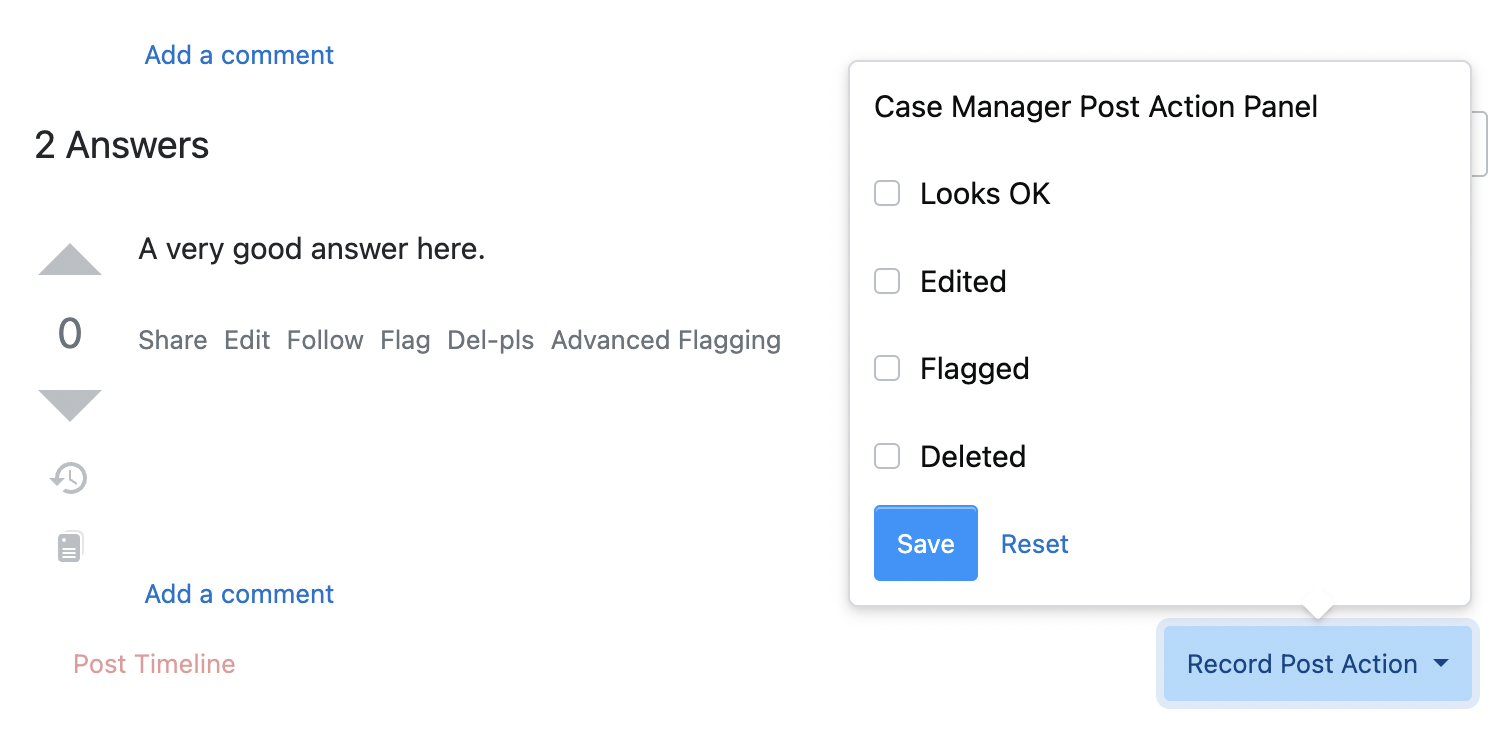
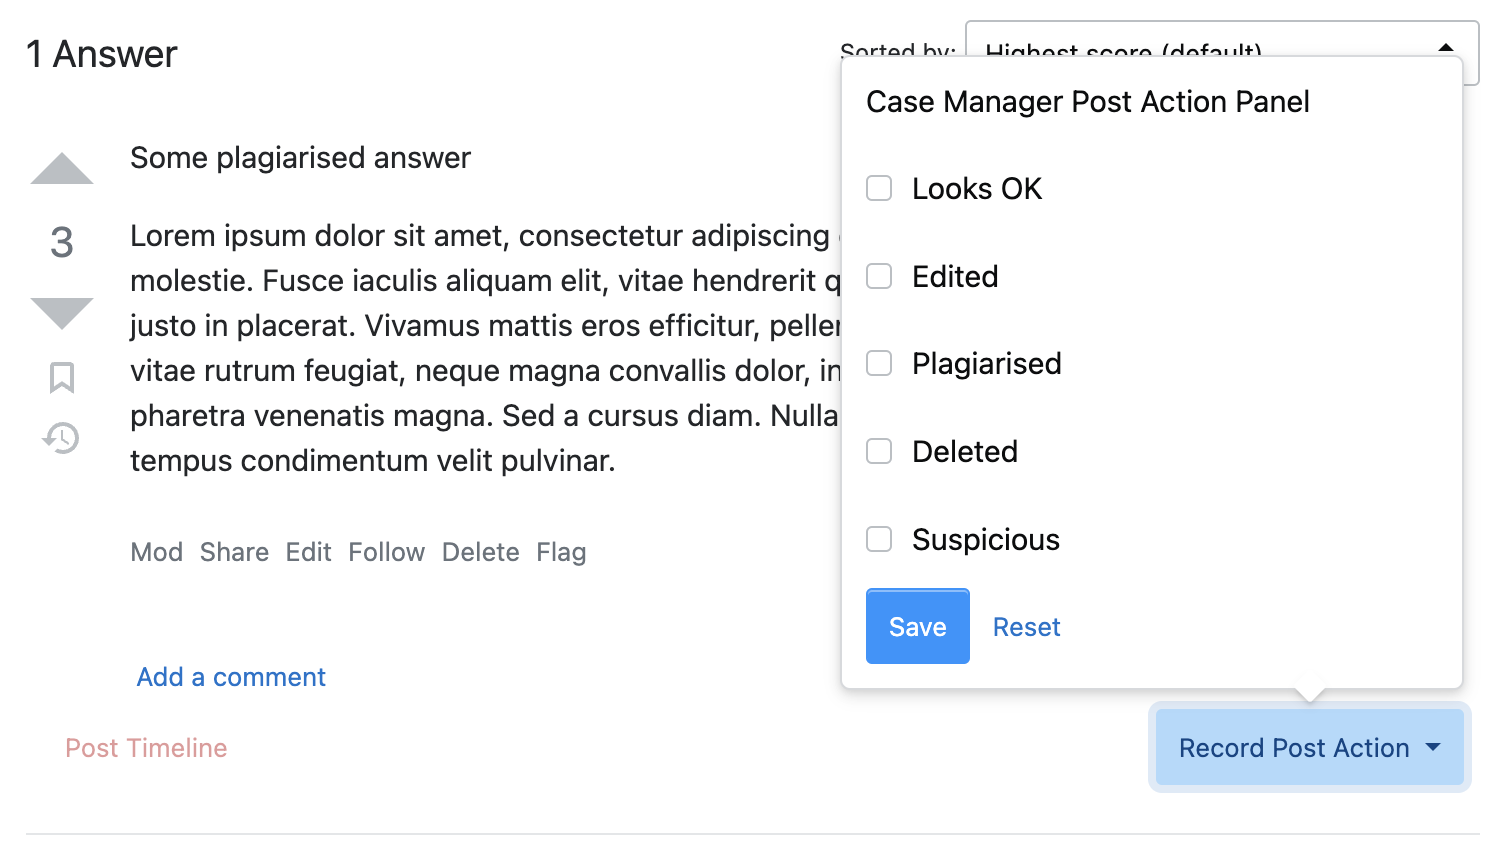
Update README screenshots and feature descriptions

diff --git a/README.md b/README.md
@@ -182,7 +182,7 @@ to something you do not have access to (like active case status for your own acc
 On your profile there will be a "Case Manager Settings" button.
 [![][14]][14]
 
-Clicking on the tab will bring you to the UserScript Settings page. Here you can:
+Clicking on the tab will bring you to the [UserScript Settings page][settings page]. Here you can:
 
 1. retrieve a new access token (for whatever reason)
 2. invalidate any existing access tokens (invalidating the access token currently being used on this device will also
@@ -192,6 +192,35 @@ Clicking on the tab will bring you to the UserScript Settings page. Here you can
 
 [![][15]][15]
 
+## Moderator Tools
+
+### Nuke Post
+#### Post-specific options
+
+Moderators gain access to an additional button on each post, which allows the post to easily be removed and feedback provided to the Case Manager.
+
+[![][19]][19]
+
+There are three options available and up to 4 actions will be taken. The post **will always be deleted** even if all options are unchecked.
+
+When the Nuke button is pressed:
+1. Character count is validated depending on which options are selected. Comments and Flags have different length requirements, both are checked.
+2. If the Flag option is selected, the post is flagged using the text in the textarea. If the flag operations fails no further actions are taken (an error is displayed).
+3. A "delete" vote is added to the post. If the delete operation fails, no further action is taken.
+4. If the Comment option is selected, a comment is added to the post.
+5. If the Log option is selected, feedback is logged in the Case Manager. The post is marked as "Plagiarised" and "Deleted"
+
+
+#### Detail Text manager
+
+Moderators also have an additional option in their [settings page] to specify what the default template for their nuke comment/flag text.
+
+This is an empty string by default, but can be customised as needed.
+
+[![][20]][20]
+
+
+[settings page]: https://stackoverflow.com/users/current?tab=case-manager-settings
 
 [1]: ./readme-images/PostSummary/post-action-panel.png
 
@@ -228,3 +257,6 @@ Clicking on the tab will bring you to the UserScript Settings page. Here you can
 [17]: ./readme-images/UserSummary/user-detail-stats-filtered.png
 
 [18]: ./readme-images/UserSummary/user-detail-stats-filtered-multiple.png
+
+[19]: ./readme-images/ModOnly/nuke-plagiarism-console.png
+[20]: ./readme-images/ModOnly/edit-detail-text-template.png
